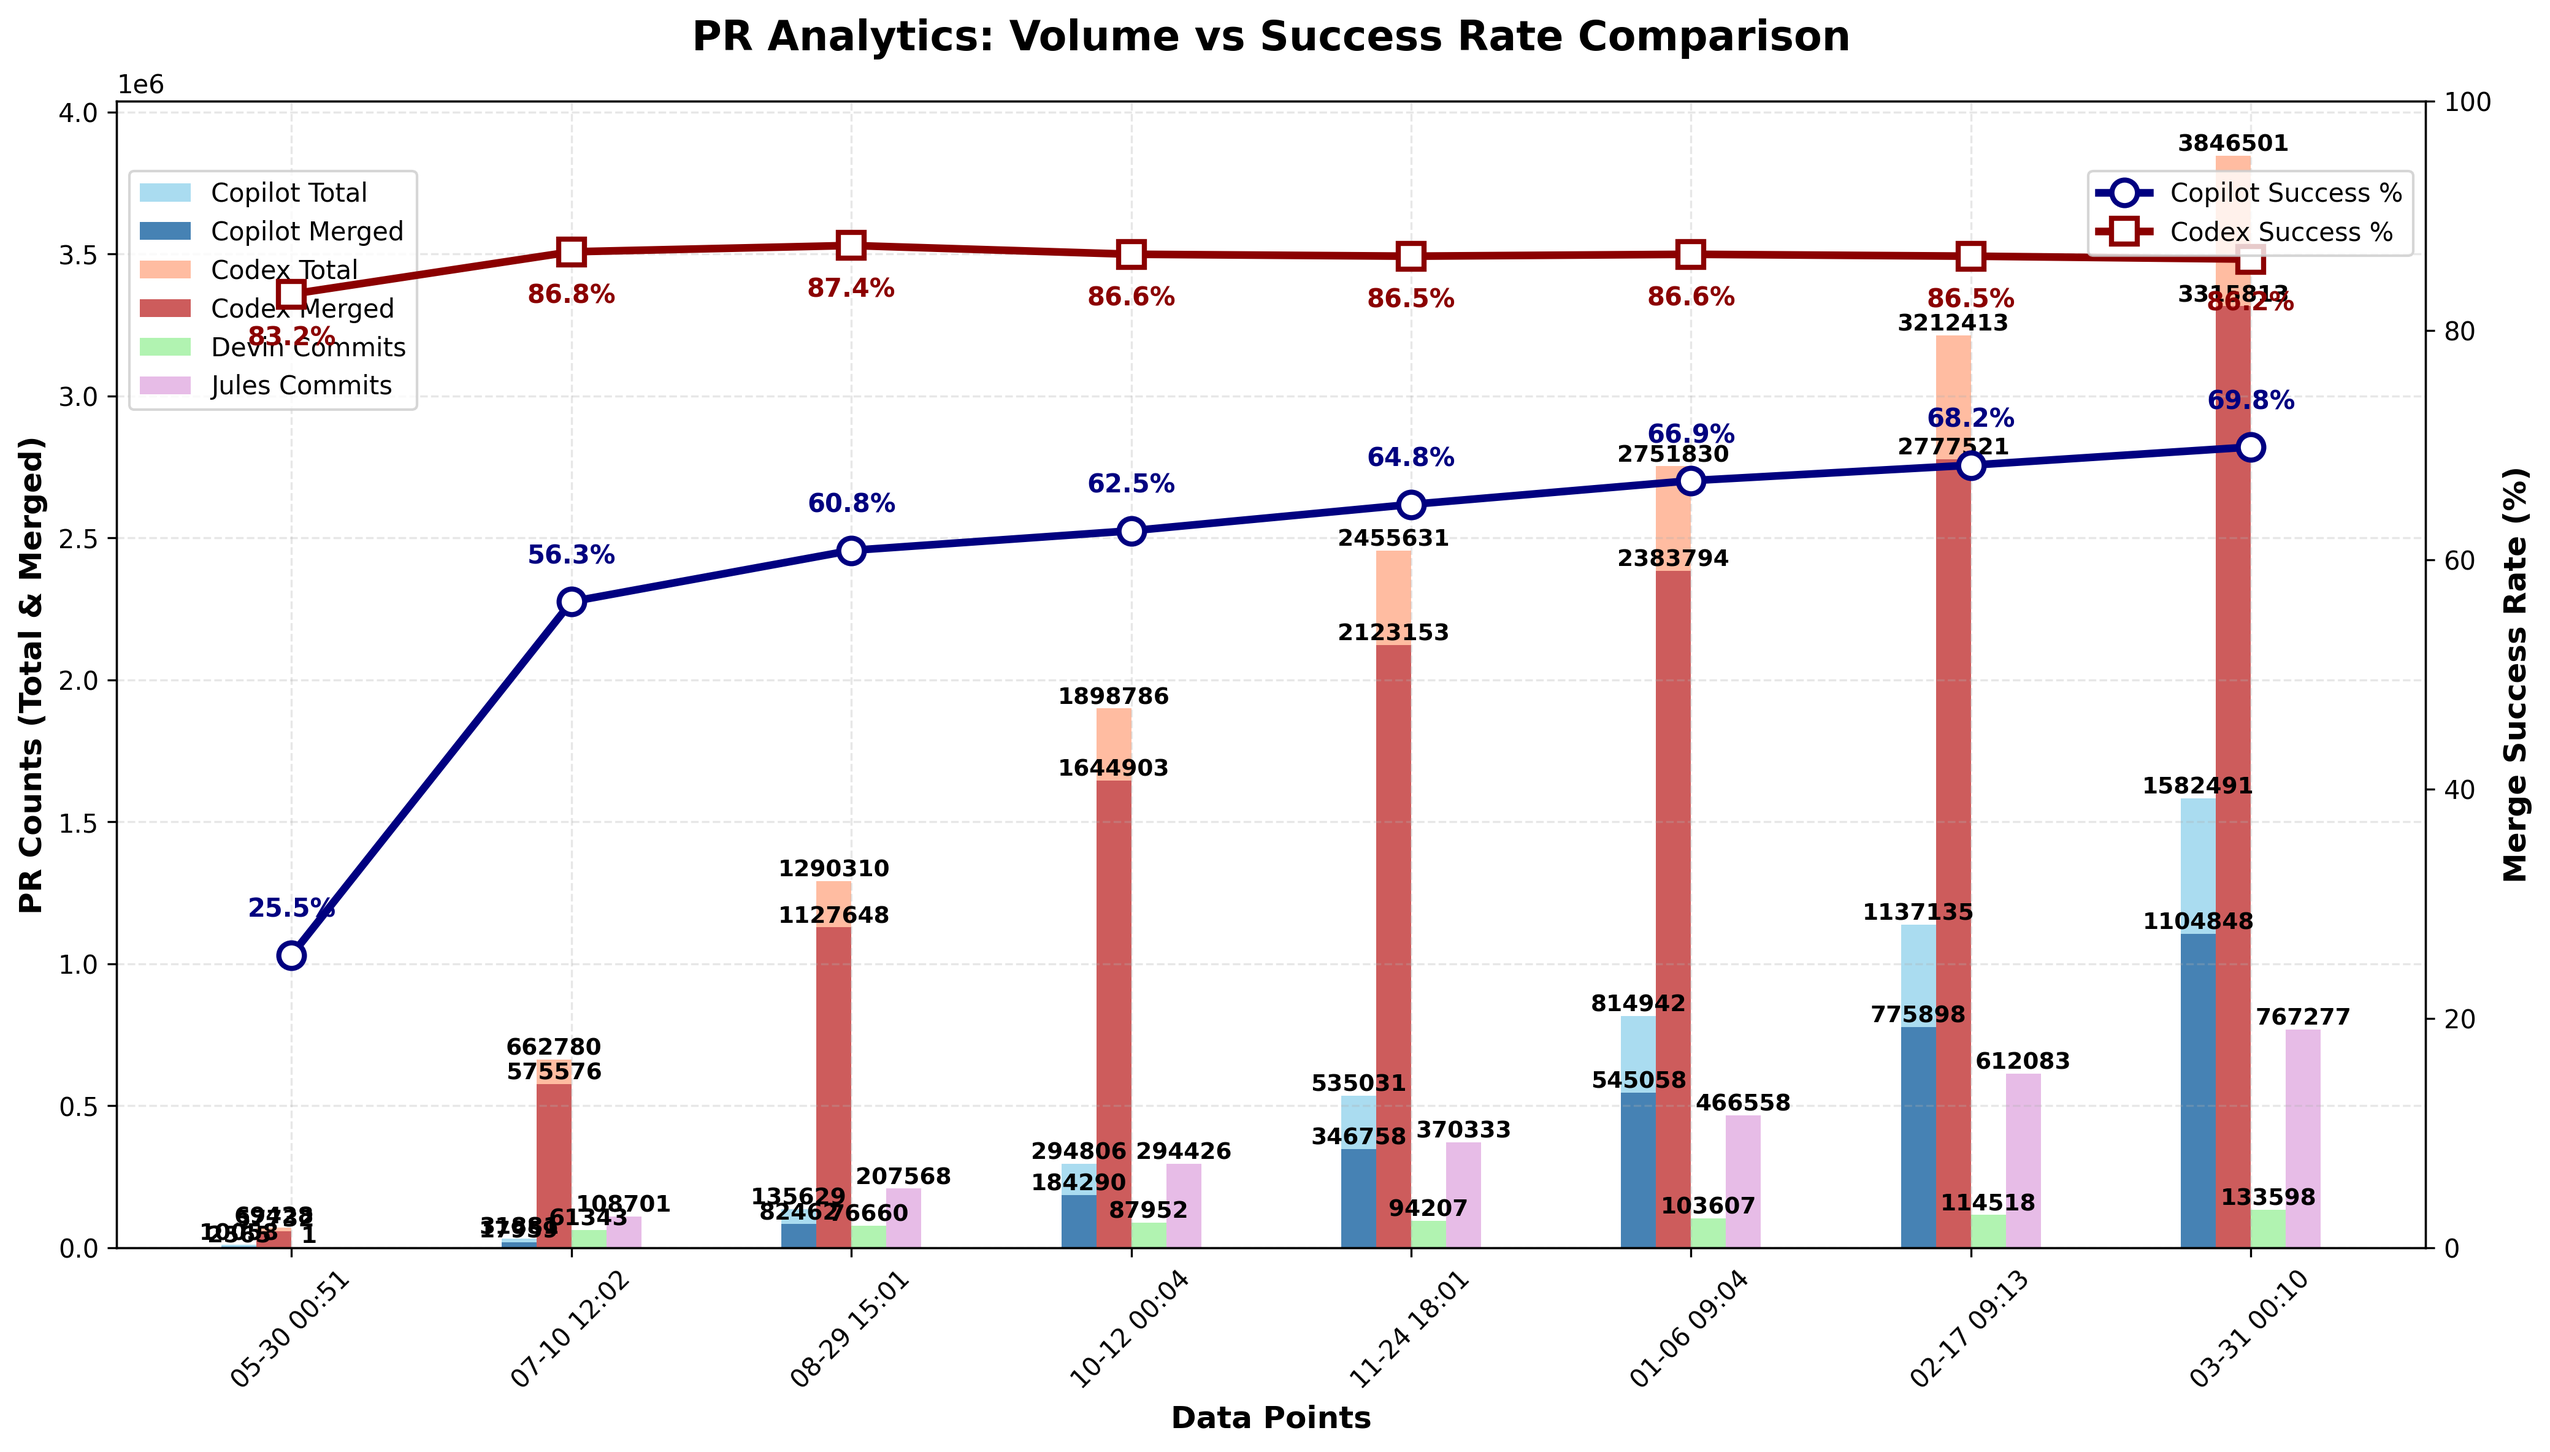
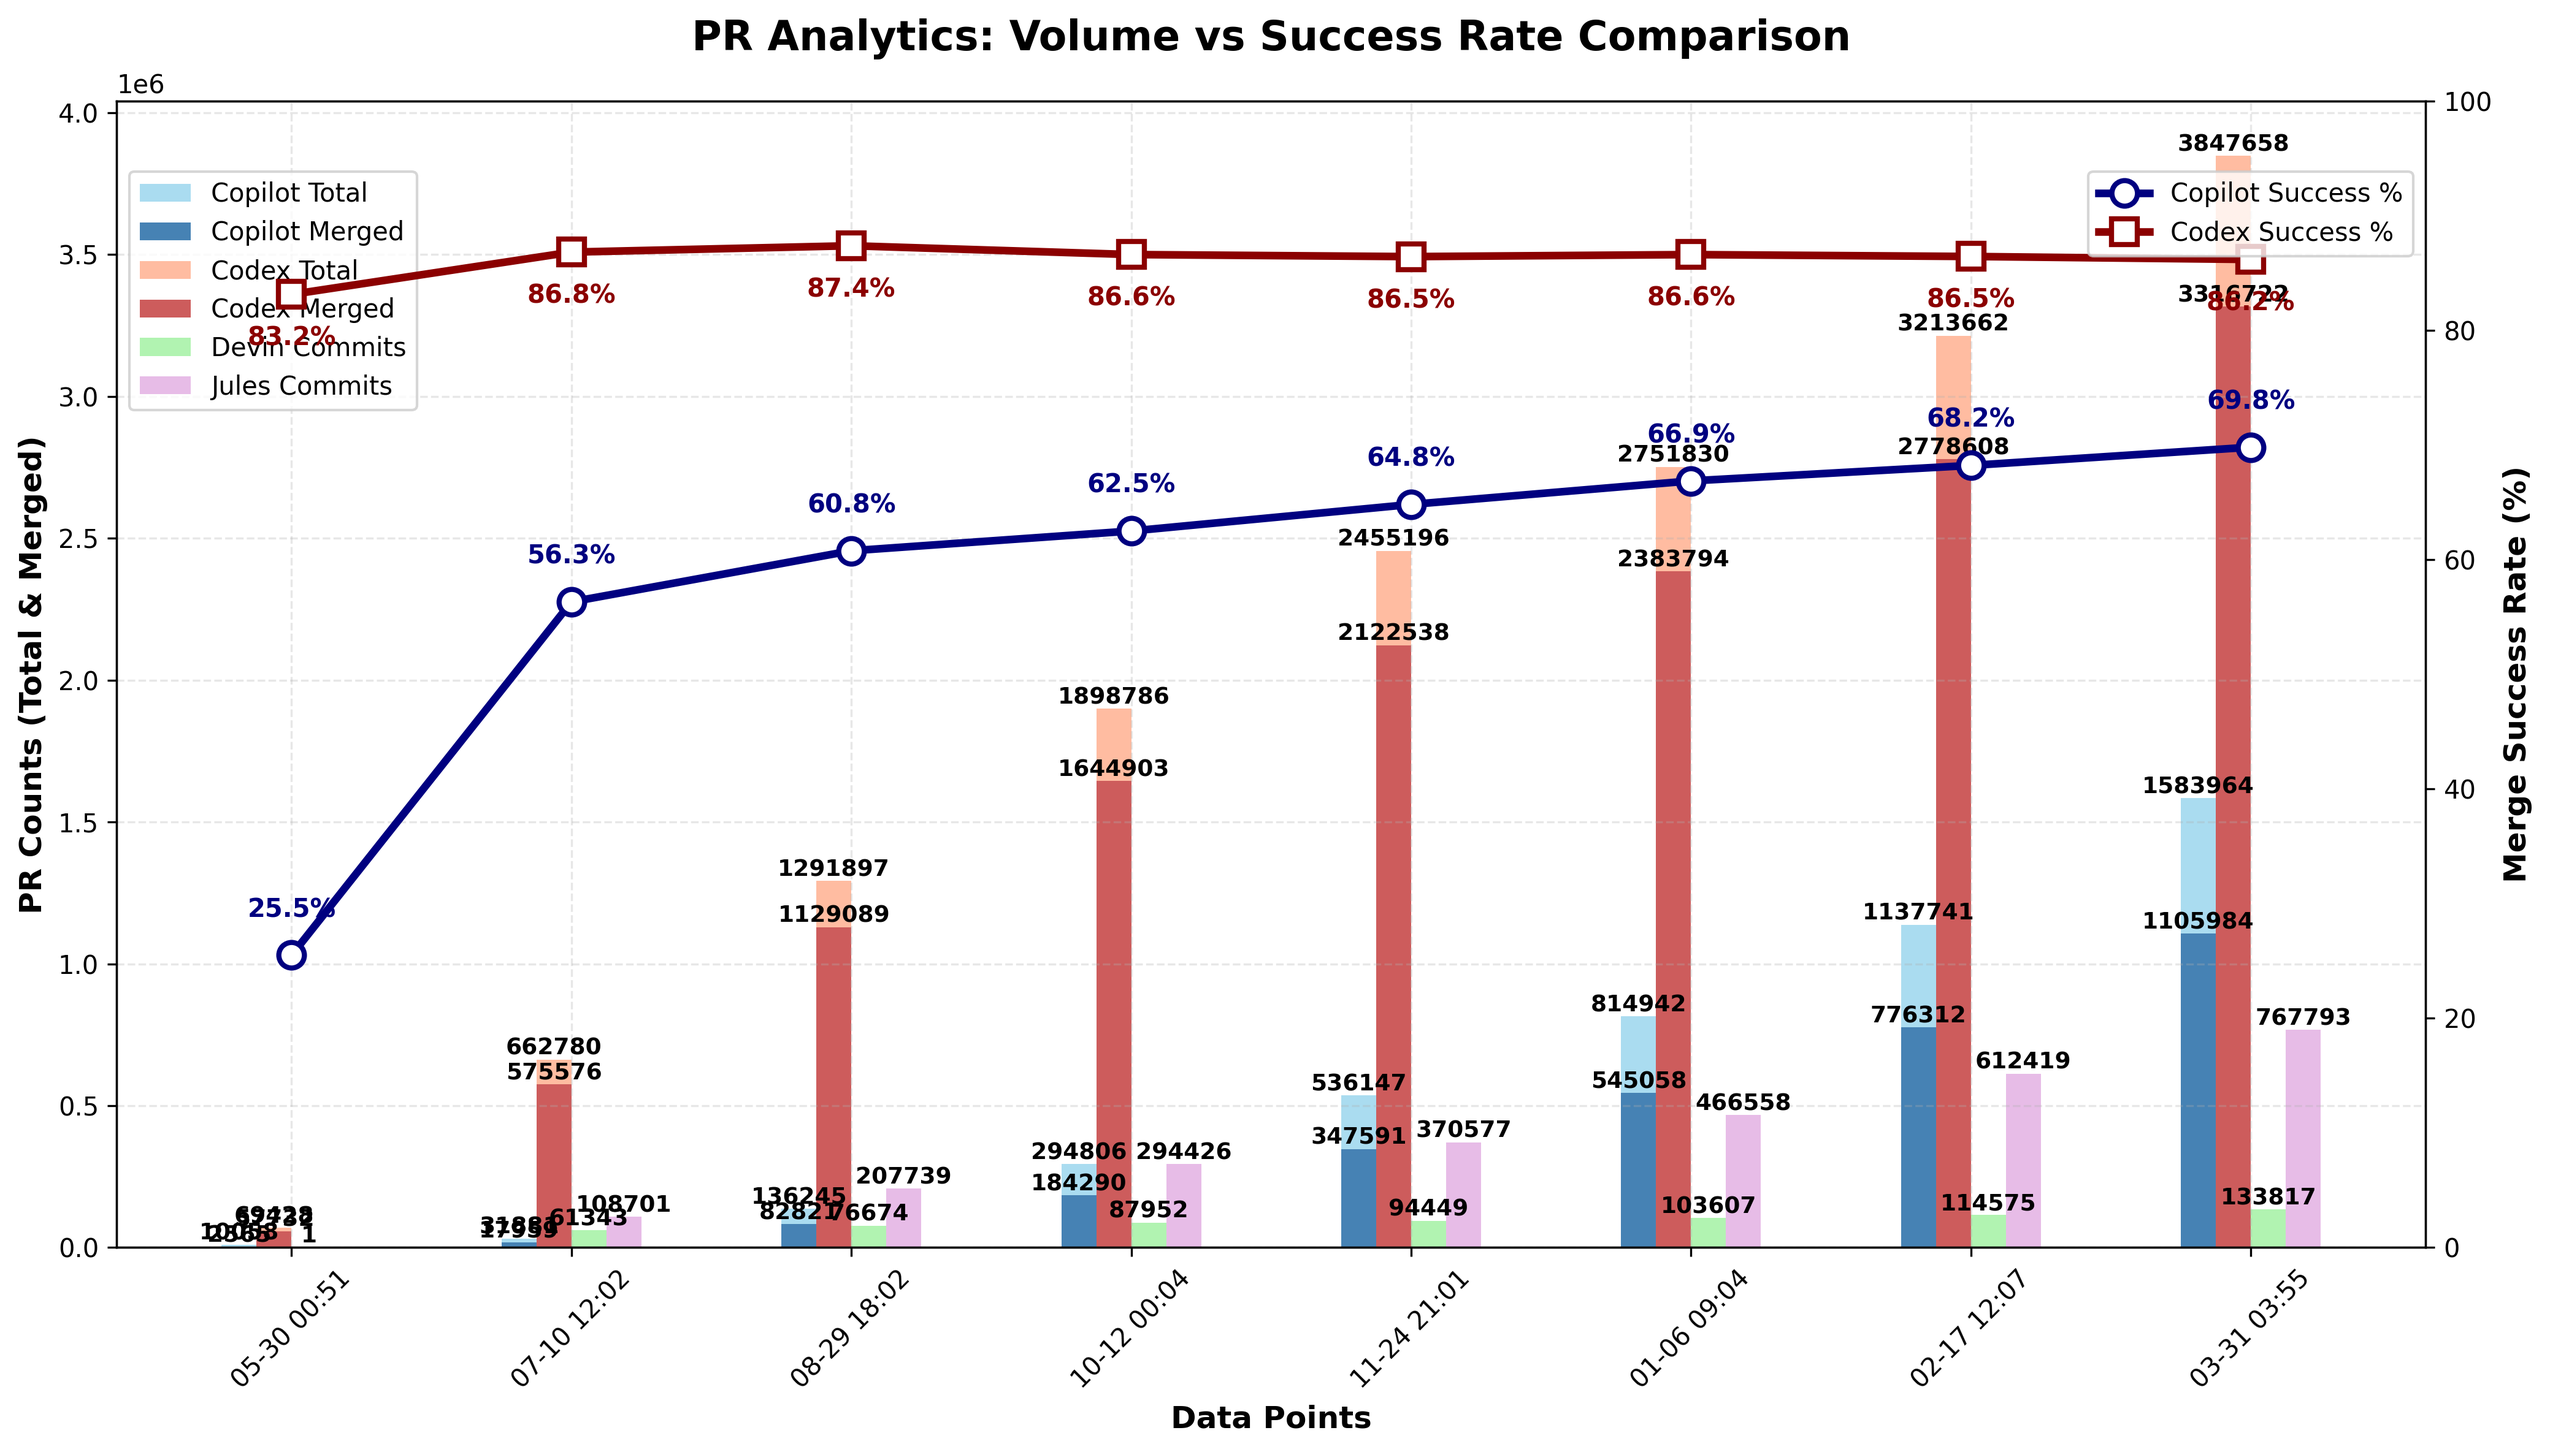
chore: update PR‑approval chart

diff --git a/docs/index.html b/docs/index.html
@@ -2368,6 +2368,7 @@
                         <td>N/A</td>
                         <td>N/A</td>
                         <td>N/A</td>
+                        <td>N/A</td>
                     </tr>
                     <tr>
                         <td>Codex</td>
@@ -4694,27 +4695,28 @@
                         <td>N/A</td>
                         <td>N/A</td>
                         <td>N/A</td>
+                        <td>N/A</td>
                     </tr>
                 <tr>
                         <td>Devin</td>
                         <td>N/A</td>
                         <td>N/A</td>
                         <td>N/A</td>
-                        <td>133,598</td>
+                        <td>133,817</td>
                     </tr>
                     <tr>
                         <td>Jules</td>
                         <td>N/A</td>
                         <td>N/A</td>
                         <td>N/A</td>
-                        <td>767,277</td>
+                        <td>767,793</td>
                     </tr>
                     </tbody>
             </table>
         </section>
 
         <footer>
-            <p>Last updated: <span id="last-updated">March 31, 2026 00:10 UTC</span></p>
+            <p>Last updated: <span id="last-updated">March 31, 2026 03:55 UTC</span></p>
             <p><a href="https://github.com/aavetis/ai-pr-watcher">View on GitHub</a></p>
         </footer>
     </div>

diff --git a/README.md b/README.md
@@ -19,7 +19,7 @@ Explore the GitHub search queries used:
 
 | Service | Total PRs | Merged PRs | Merge Rate | Total Commits |
 | ------- | --------- | ---------- | ---------- | ------------- |
-| Copilot | 1,582,491 | 1,104,848 | 69.82% | N/A           |
-| Codex   | 3,846,501 | 3,315,813 | 86.20% | N/A           |
-| Devin   | N/A       | N/A        | N/A        | 133,598 |
-| Jules   | N/A       | N/A        | N/A        | 767,277 |
+| Copilot | 1,583,964 | 1,105,984 | 69.82% | N/A           |
+| Codex   | 3,847,658 | 3,316,722 | 86.20% | N/A           |
+| Devin   | N/A       | N/A        | N/A        | 133,817 |
+| Jules   | N/A       | N/A        | N/A        | 767,793 |
